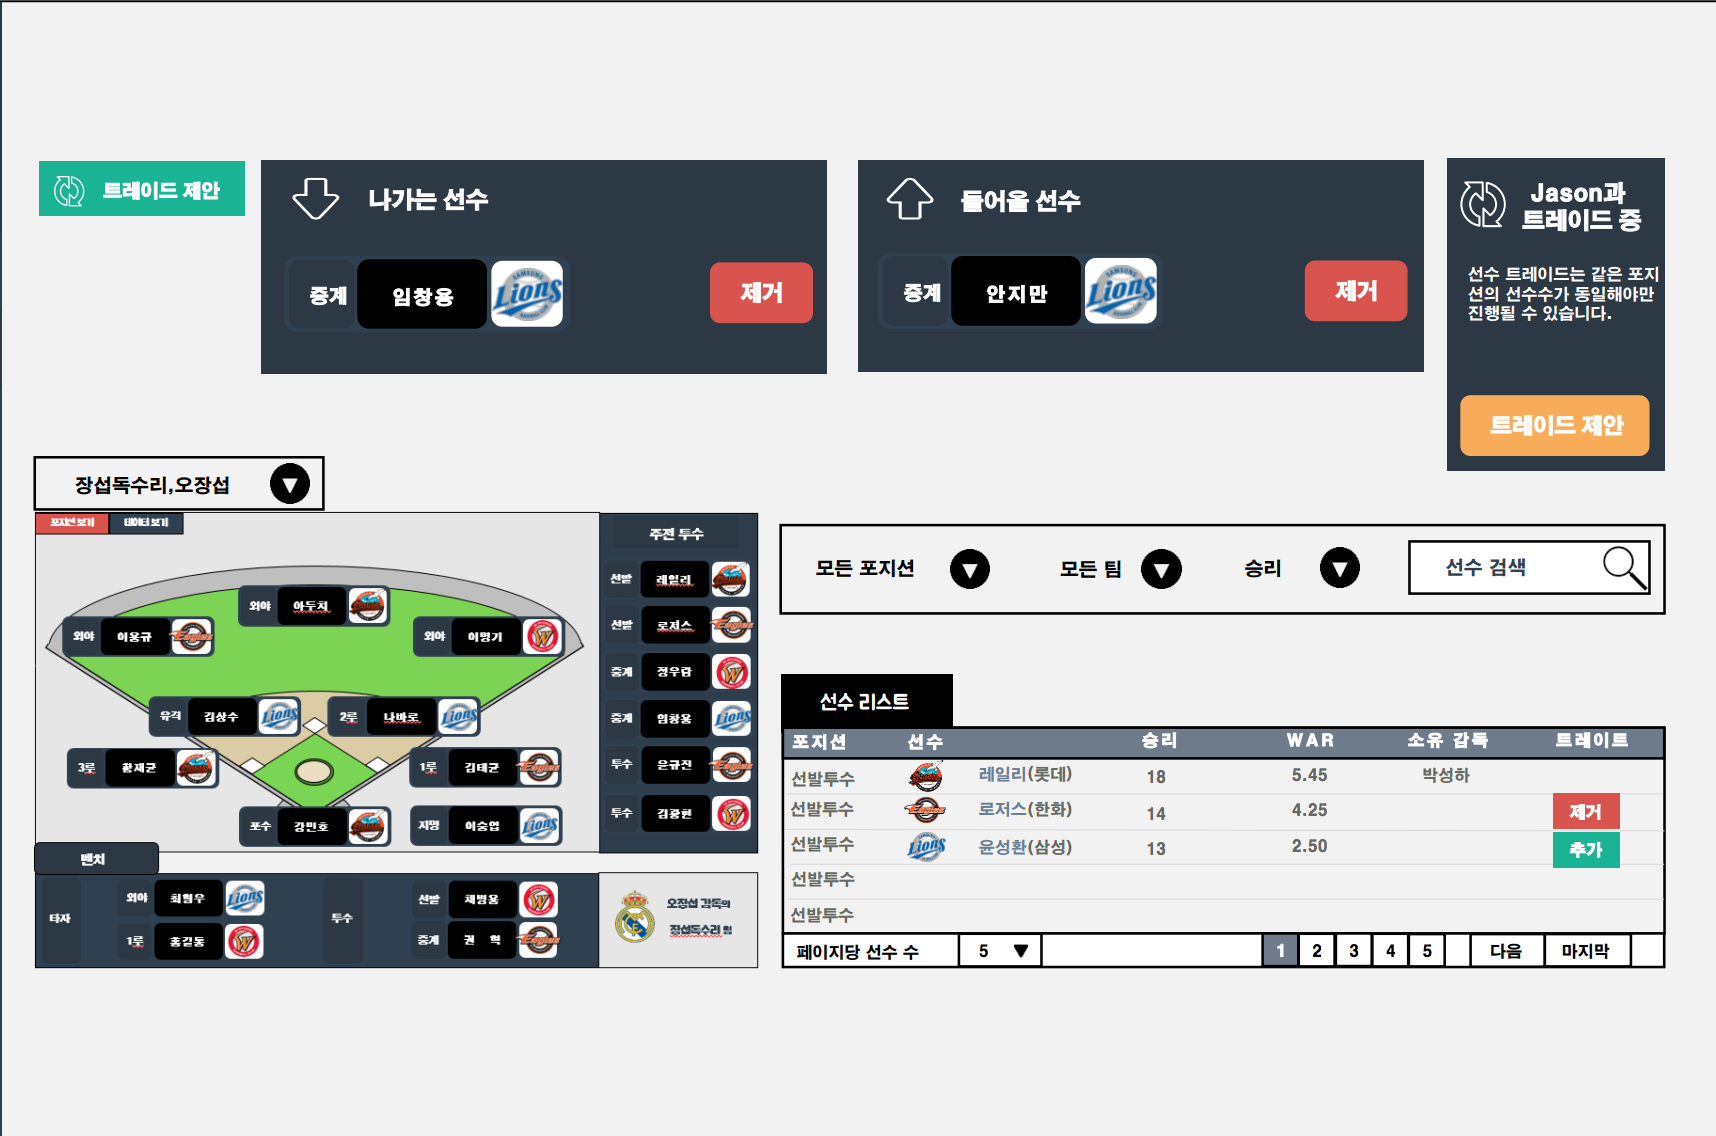
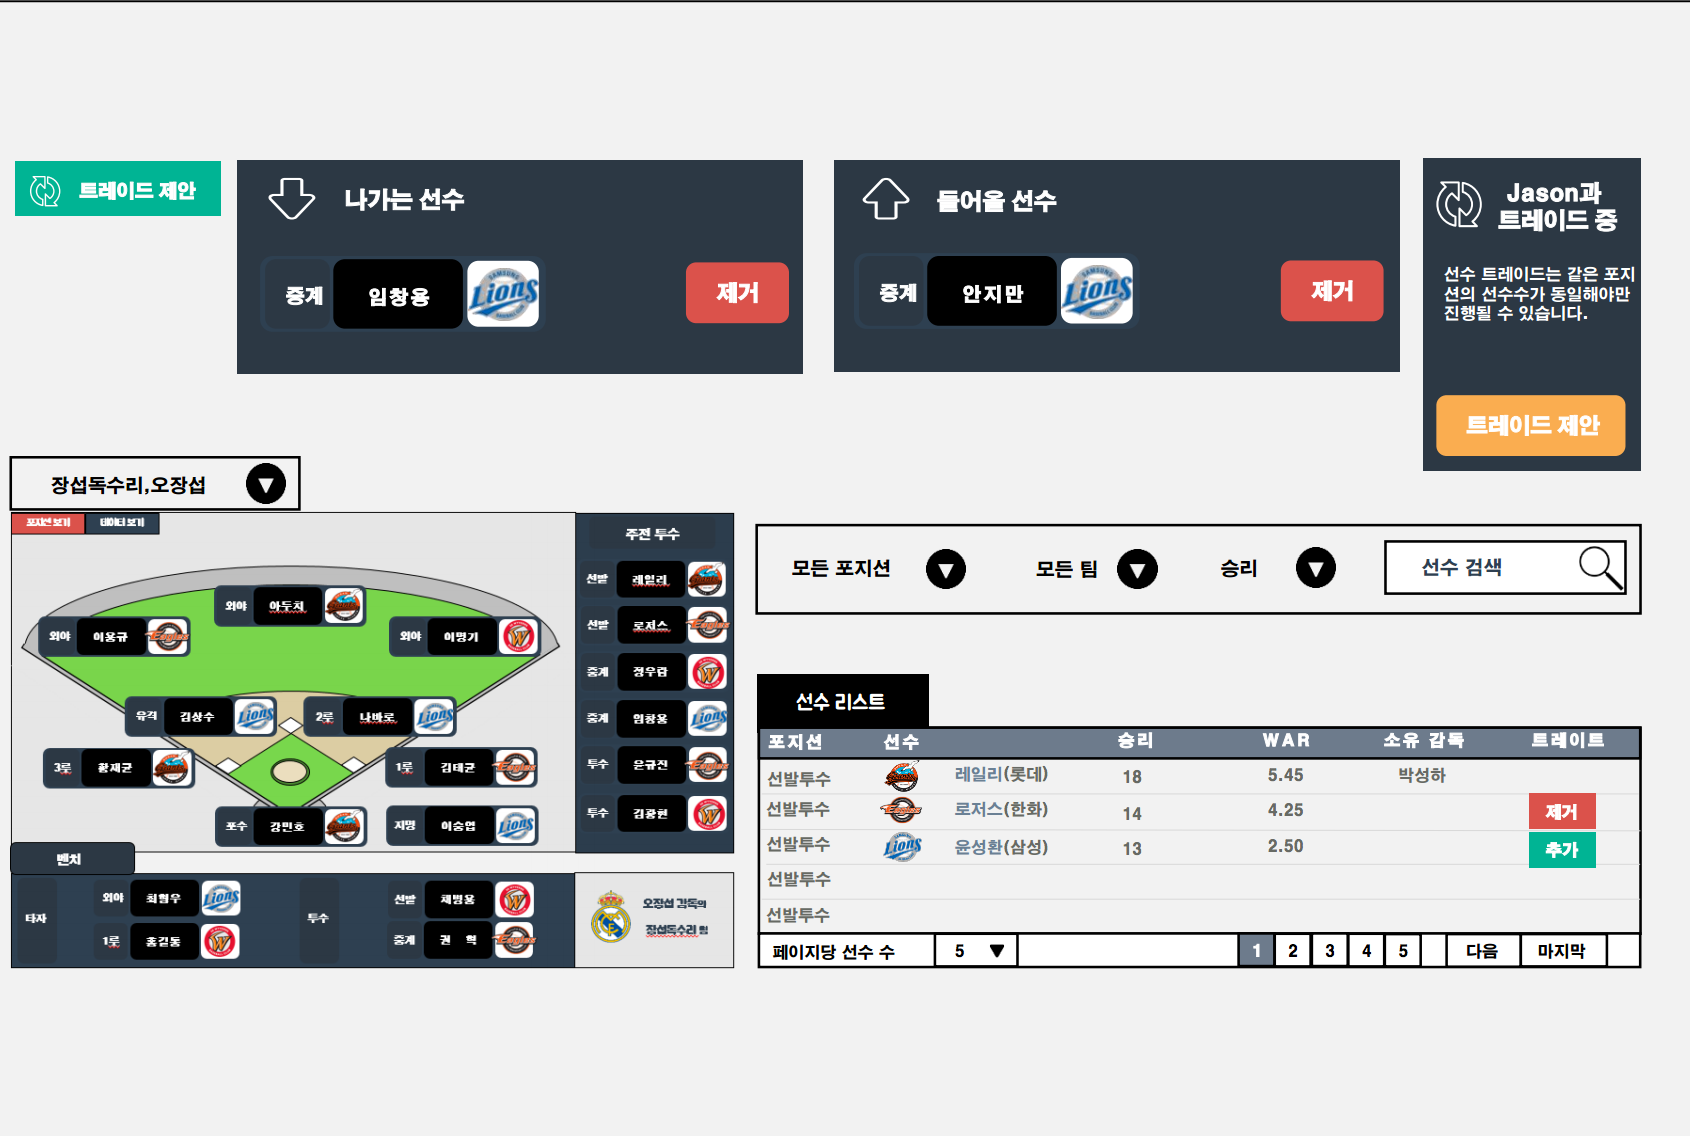
cover fix

diff --git a/app/assets/stylesheets/league.css.scss b/app/assets/stylesheets/league.css.scss
@@ -1269,8 +1269,9 @@ div.trade-slot-team > img{
 }
 
 .capture > img{
-    width : 100%;
+    width : 99%;
     margin-top: -150px;
+    margin-left: 20px;
 }
 
 .emblem-slot > img{
